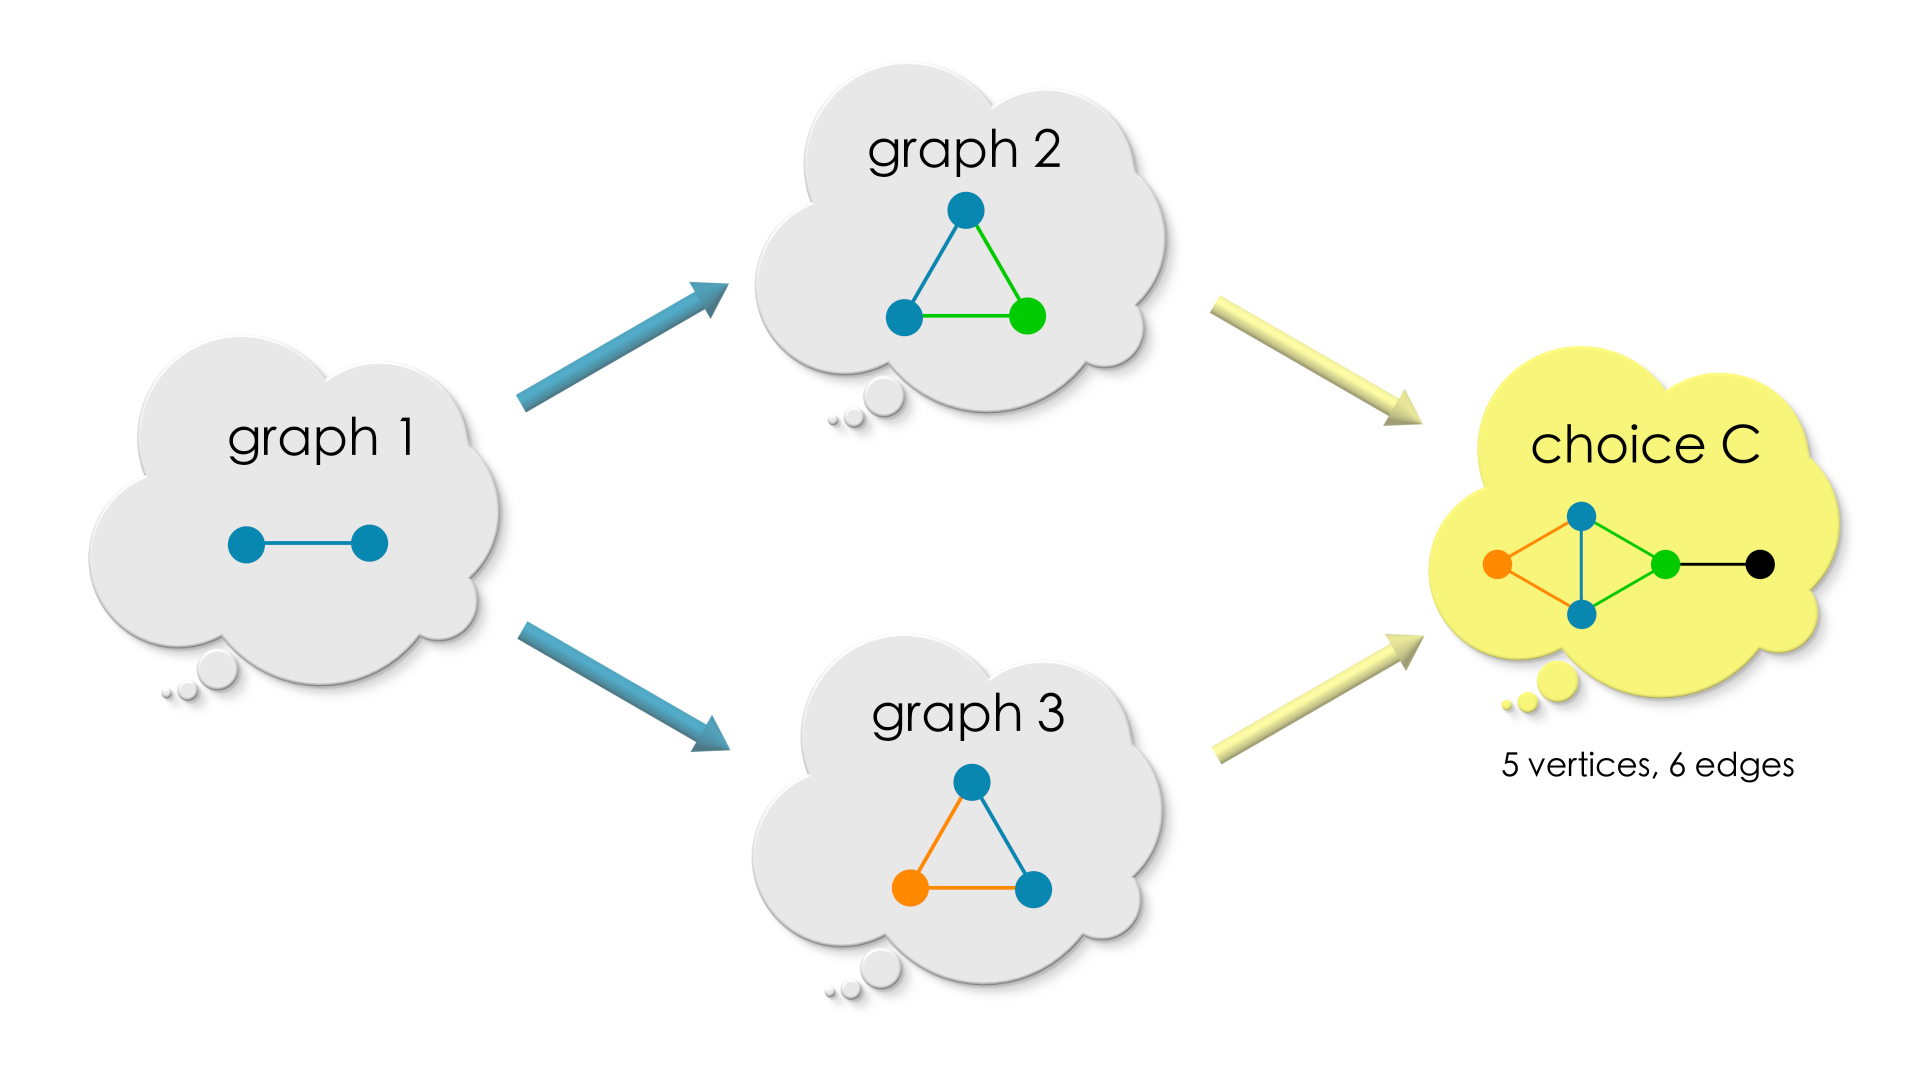
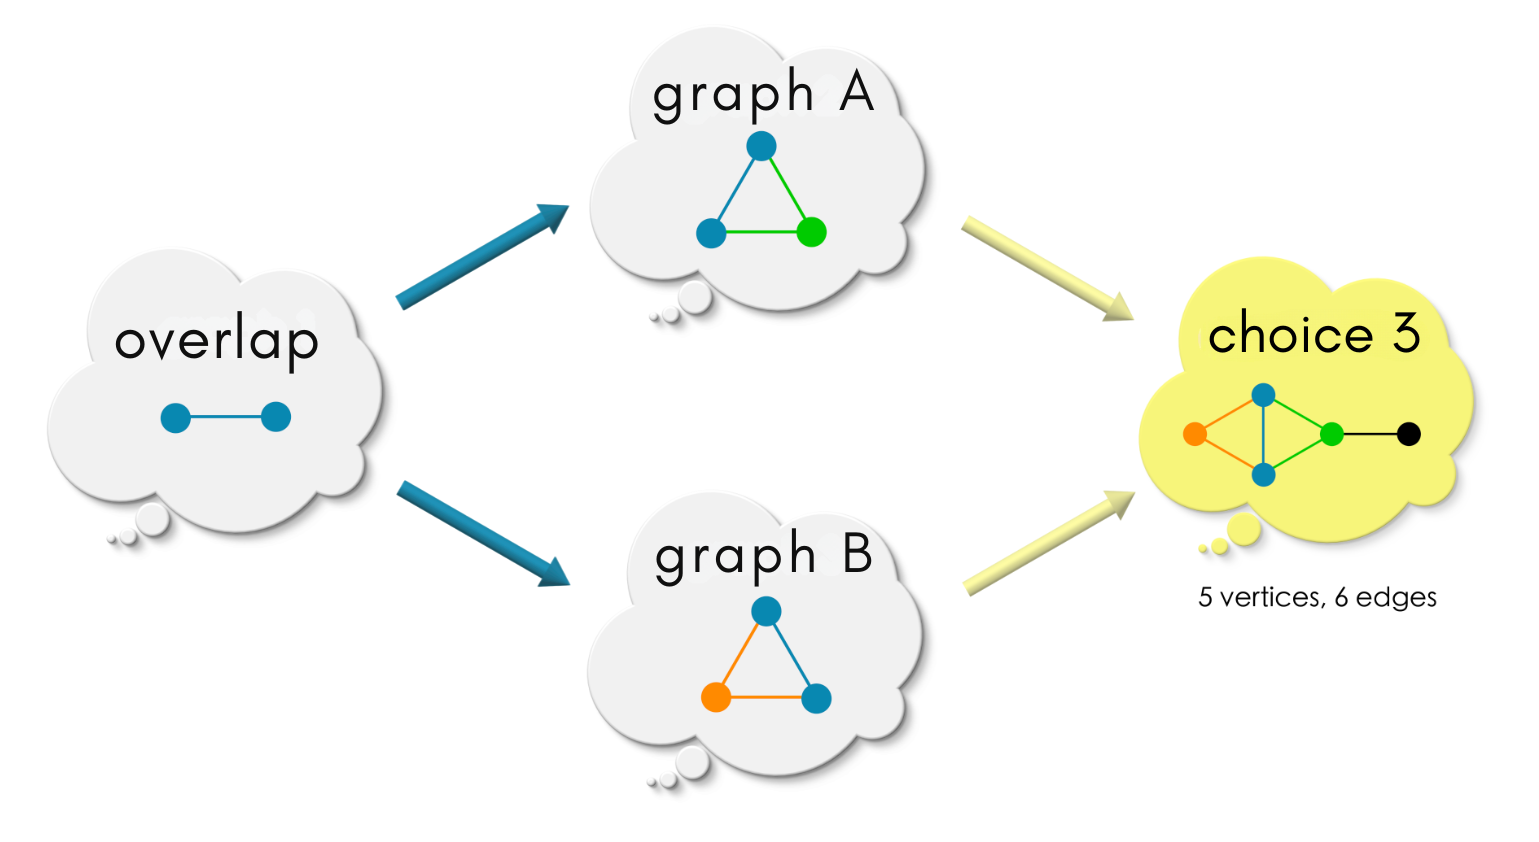
Ch 5: Graphics modified for  names

diff --git a/chp5-graph-gluing.md b/chp5-graph-gluing.md
@@ -33,7 +33,7 @@ As a step towards making sense of the idea of combining graphs, let us a revisit
 
 In this graph, Paul claimed to be friends with Tuco (to our unaware readers, Tuco is Paul’s neighbor’s cat). Paul is also a friend of Brendan, Angeline and Priyaa (co-authors of this book). Encoding these friendships as graphs, we get:
 
-```{image} assets/Ch5/3b.png
+```{image} assets/Ch5/3c.jpeg
 :alt: Whoopsy!
 :width: 560px
 :align: center
@@ -41,9 +41,9 @@ In this graph, Paul claimed to be friends with Tuco (to our unaware readers, Tuc
 
 Read each edge in the above graphs as “is a friend of”. Combining the above two friendship graphs along the common vertex Paul into a single friendship graph, we get:
 
-```{image} assets/Ch5/3c.png
+```{image} assets/Ch5/3b.jpeg
 :alt: Whoopsy!
-:width: 560px
+:width: 460px
 :align: center
 ```
 </br>
@@ -99,9 +99,10 @@ We saw in previous chapters that a graph morphism identifies one graph inside an
 
 ```{image} assets/Ch5/1.png
 :alt: Whoopsy!
-:width: 800px
+:width: 400px
 :align: center
 ```
+</br>
 
 The relationships between the graphs in the above diagram are: 
 
@@ -133,8 +134,7 @@ With this analogy in mind, let us think of the `pushout` of a (overlap) diagram 
 :class: tip
 
 A diagram with two radiating maps into two graphs is a specification of an overlap of those graphs. 
-
-```{image} assets/Ch5/1.png
+```{image} assets/Ch5/1b.png
 :alt: Whoopsy!
 :width: 500px
 :align: center
@@ -226,7 +226,7 @@ Thus, our enquiry to `graph A` and `graph B` have resulted in a condition that a
 :width: 450px
 :align: center
 ```
-<center> Commuting square of a `pushout` </center>
+<center> Commuting square of a pushout </center>
 
 :::
 
@@ -260,7 +260,7 @@ To do so, we are going to do step outside the game for a moment and sharpen our 
 :align: center
 ```
 
-`overlap` embeds in `graph A` and `graph B` as follows:
+The `overlap` maps into `graph A` and `graph B` as follows:
 
 ```{image} assets/Ch5/1.png
 :alt: Whoopsy!
@@ -337,8 +337,7 @@ Let's begin our quest for these relationships!
 :width: 500px
 :align: center
 ```
-
-
+</br>
 
 We have two commuting diagrams - one with `choice 1` and another one with `choice 2`. Next we see how they are related with each other.
 
@@ -347,6 +346,8 @@ We have two commuting diagrams - one with `choice 1` and another one with `choic
 :width: 500px
 :align: center
 ```
+
+</br>
 
 There are many graph morphisms from graph `choice 1` to graph `choice 2`. But there is exactly one arrow (dotted) that will make the 2 three-sided diagrams (2 triangles) formed by two yellow arrows and the dotted arrow commute. This dotted arrow is again the most intuitive one, mapping blue vertices/edges to blue, green vertices/edges to green, orange to orange. This arrow from `choice 1` to `choice 2` is dotted to signify that there is only one such morphism. 
 
@@ -359,6 +360,7 @@ There are many graph morphisms from graph `choice 1` to graph `choice 2`. But th
 :width: 500px
 :align: center
 ```
+</br>
 
 Now for the other direction, are there maps from `choice 2` to `choice 1` all possible closed shapes in the above diagram will commute simultaneously? Nope, there is no such embedding — the orange-green vertex of `choice 2` can be mapped to either the orange or the green vertex of `choice 1`. If it is mapped into the orange vertex, then the upper triangle does not commute. If it is mapped into the green vertex, then the lower triangle does not commute. Since `choice 2` has coarse-grained the information of `graph A` and `graph B`, the information cannot be fine-grained again! So no map in the backwards direction!
 
@@ -372,14 +374,16 @@ Now for the other direction, are there maps from `choice 2` to `choice 1` all po
 :width: 500px
 :align: center
 ```
+</br>
 
-As before, there is exactly one (obvious) choice of morphism from `choice 1` to `choice 3` that will make the  yellow triangles commute. 
+As before, there is exactly one (obvious) choice of morphism from `choice 1` to `choice 3` that will make the triangles commute. 
 
 ```{image} assets/Ch5/9c.png
 :alt: Whoopsy!
 :width: 500px
 :align: center
 ```
+</br>
 
 However, there are at least two ways in `choice 3` maps into `choice 1` to make the triangles commute. The grey vertex in `choice 3` can be mapped to one of the two blue vertices in `choice 1`. Both these choices are equally good! Because, `choice 3` has extra information, that is a vertex and an edge neither from `graph A` nor from `graph B`, there is more than one way of mapping this extra information into the most lazy `choice 1`.
 
@@ -397,7 +401,7 @@ However, there are at least two ways in `choice 3` maps into `choice 1` to make 
 :align: center
 ```
 
-As before, there is exactly one (obvious) choice of morphism from `choice 1` to `choice 4` that will make the  yellow triangles commute. 
+As before, there is exactly one (obvious) choice of morphism from `choice 1` to `choice 4` that will make the triangles commute. 
 
 ```{image} assets/Ch5/10c.png
 :alt: Whoopsy!
@@ -421,9 +425,9 @@ Whewww!! That is some hard core relational thinking!
 :::{admonition} Key points
 :class: tip
 
-`pushout`s satisfy the universal property having a unique arrow into any other graph that will make a commuting square with the blue arrows!
+The `pushout` satisfies a universal property: the `pushout` has a unique arrow into any other graph which satisfies Pass 1, such that two triangles commute!
 
-```{image} assets/Ch5/8b.png
+```{image} assets/Ch5/13b.png
 :alt: Whoopsy!
 :width: 500px
 :align: center
@@ -435,22 +439,24 @@ Whewww!! That is some hard core relational thinking!
 
 We have progressed quite a bit! Let us review our progress so far! In this game, to begin with, a `pushout` could be any graph in the space of all possible graphs. 
 
+**Pass 1: Commuting square**:- 
 ```{image} assets/Ch5/13a.png
 :alt: Whoopsy!
 :width: 500px
 :align: center
 ```
 
-**Pass 1: Commuting square**:- By asking `overlap`, `graph A`, and `graph B`, "What is your relationship with the `pushout`?", we narrowed down a set of candidates for the `pushout` from the space of all graphs. Each one of these candidates (`graph X`) make the above diagram commute!
+By asking `overlap`, `graph A`, and `graph B`, "What is your relationship with the `pushout`?", we narrowed down a set of candidates for the `pushout` from the space of all graphs. Each one of these candidates (`graph X`) make the above diagram commute!
 
 
+**Pass 2: Universal property**:-
 ```{image} assets/Ch5/13b.png
 :alt: Whoopsy!
 :width: 500px
 :align: center
 ```
 
-**Pass 2: Universal property**:- By asking same question to all the candidates that made through Pass 1, we narrowed down the candidates to those which satisfy the universal property: which have exactly one morphism into any other candidate such that the two yellow triangles (in the above diagram) commute simultaneously. 
+ By asking same question to all the candidates that made through Pass 1, we narrowed down the candidates to those which satisfy the universal property: which have exactly one morphism into any other candidate such that the two triangles (in the above diagram) commute simultaneously. 
 
 Now, 
 
@@ -466,7 +472,7 @@ Our goal is to finally end up with one `pushout` graph!! Recall that the `pushou
 
 Suppose some `graph X` made it through Pass 2 along with the `pushout`. What is its relationship with the `pushout`?
 
-Both `graph X` and the `pushout` satisfy the commuting square requirement of Pass 1. However, `graph X` is universal (satisfies the universal property). So, `graph X` must have a unique map into the `pushout`. 
+Both `graph X` and the `pushout` satisfy the commuting square requirement of Pass 1. However, `graph X` is universal (satisfies the universal property). So, `graph X` must have a unique map into the `pushout` that makes the triangles commute. 
 
 ```{image} assets/Ch5/16b.png
 :alt: Whoopsy!
@@ -474,7 +480,7 @@ Both `graph X` and the `pushout` satisfy the commuting square requirement of Pas
 :align: center
 ```
 
-However, the `pushout` is also universal. So it must have a unique map into `graph X`.
+However, the `pushout` is also universal. So it must have a unique map into `graph X` that makes the triangles commute. 
 
 ```{image} assets/Ch5/16a.png
 :alt: Whoopsy!
@@ -488,7 +494,7 @@ However, all the commuting shapes of pass 1 and pass 2 tell us that these two ma
 :class: dropdown
 
 ````{div} wrapper 
-In the above diagrams, Graph X1 uniquely embeds into X2, and X2 embeds uniquely into X2. Together, they tells us 1,2,3,4 commute in unison! 
+In the above diagrams, the `pushout` has a unique mapping into `graph X`, and `graph X` has a unique mapping into X2. These two maps make all the four triangles commute in unison! 
 
 ```{image} assets/Ch5/17a.png
 :alt: Whoopsy!
@@ -496,7 +502,7 @@ In the above diagrams, Graph X1 uniquely embeds into X2, and X2 embeds uniquely 
 :align: center
 ```
 
-Because, the shapes 1, 2, 3, 4 commute, we know that 13 and 24 commutes in the following diagram:
+Since the upper two triangles commute in the above diagram, the upper triangle in the below diagram commutes. Similarly for the lower triangle. 
 
 ```{image} assets/Ch5/17b.png
 :alt: Whoopsy!
@@ -504,14 +510,14 @@ Because, the shapes 1, 2, 3, 4 commute, we know that 13 and 24 commutes in the f
 :align: center
 ```
 
-There is one other arrow from Graph X1 to Graph X2 which can make the above diagram commute: The “be-as-you-are” arrow
+There is one other arrow from the `pushout` to `pushout` which can make the above diagram commute: The “be-as-you-are” arrow (that which maps each vertex to itself and each edge to itself):
 ```{image} assets/Ch5/17c.png
 :alt: Whoopsy!
 :width: 500px
 :align: center
 ```
 
-Because the embedding “Graph X1 —> Graph X2 —> Graph X1”  is unique, there cannot be a different arrow which makes “13” and “24” commute. Hence, 
+Because the map `pushout` —> `graph X` —> `pushout`  is unique, there is ONLY ONE arrow which makes the two (big) triangles commute. However, we have two mappings. So, both of them should be the same!   Hence, 
 ```{image} assets/Ch5/18a.png
 :alt: Whoopsy!
 :width: 500px
@@ -560,19 +566,21 @@ We compute the `pushout` of an overlap diagram. The `pushout` is a graph which s
 
 **Pass 1: Commuting square** :-  The following square must commute.
 
-```{image} assets/Ch5/19b.png
+```{image} assets/Ch5/13a.png
 :alt: Whoopsy!
 :width: 450px
 :align: center
 ```
+</br>
 
-**Pass 2: Universal property**: For any other choice of graph which satisfies Pass 1's requirement, there is exactly one (a unique) map from the `pushout` into that choice such that yellow triangles commute. 
+**Pass 2: Universal property**: For any other choice of graph which satisfies Pass 1's requirement, there is exactly one (a unique) map from the `pushout` into that choice such that the triangles commute. 
 
 ```{image} assets/Ch5/19c.png
 :alt: Whoopsy!
 :width: 450px
 :align: center
 ```
+</br>
 
 As a consequence of these requirements, all graphs which satisfy both these requirements **are “practically the same”**.  
 
